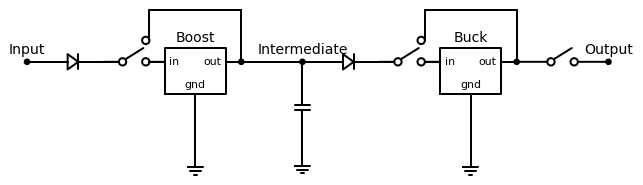
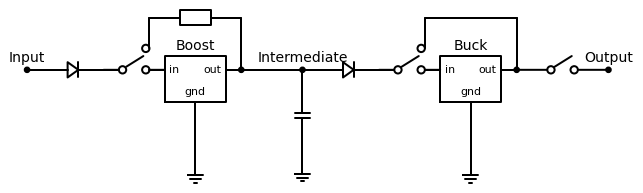
update vsource schematic

diff --git a/32_virtual_source_schemdraw.py b/32_virtual_source_schemdraw.py
@@ -1,6 +1,8 @@
 import schemdraw
 import schemdraw.elements as elm
 
+elm.style(elm.STYLE_IEC)
+
 drawing = schemdraw.Drawing()
 drawing += elm.Dot().label("Input")
 drawing += elm.Diode()
@@ -12,7 +14,7 @@ drawing += elm.Line().right().length(2).at(boost.out)
 N2 = drawing.add(elm.Dot().label("Intermediate"))
 
 drawing += elm.Line().up().length(1).at(S1.c)
-drawing += elm.Line().right()
+drawing += elm.Resistor().right()
 drawing += elm.Line().down().length(1.7)
 drawing += elm.Dot()
 
